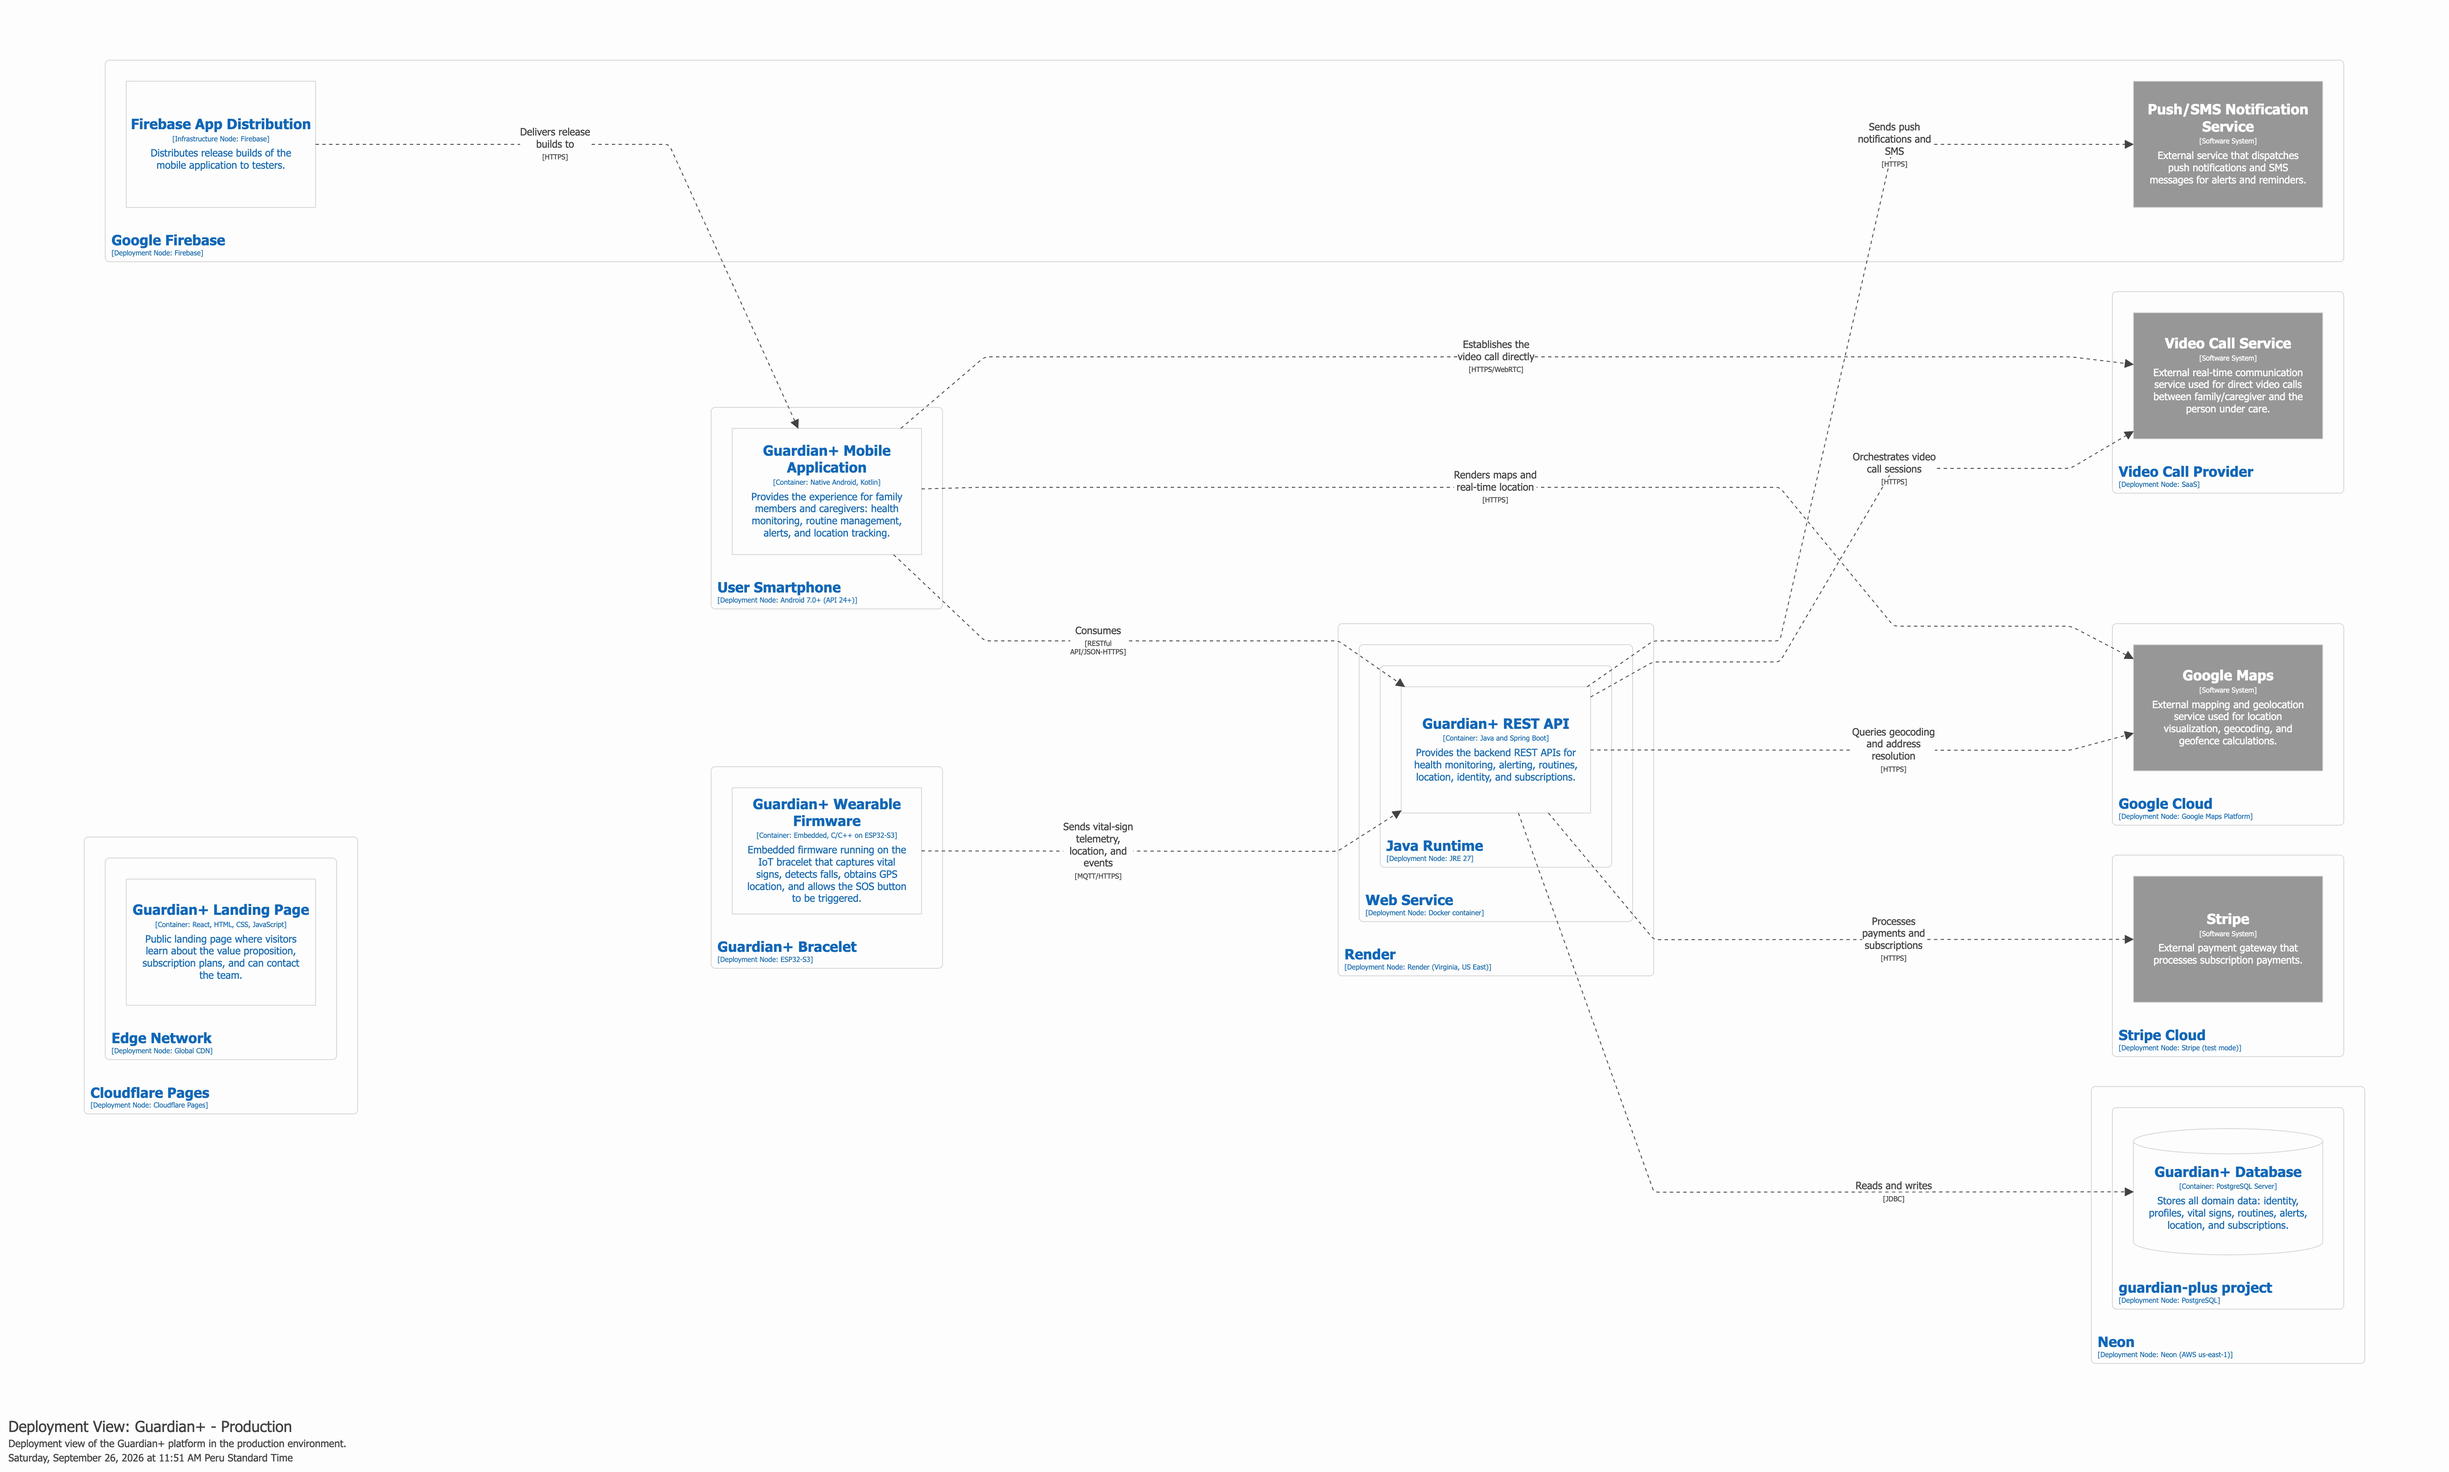
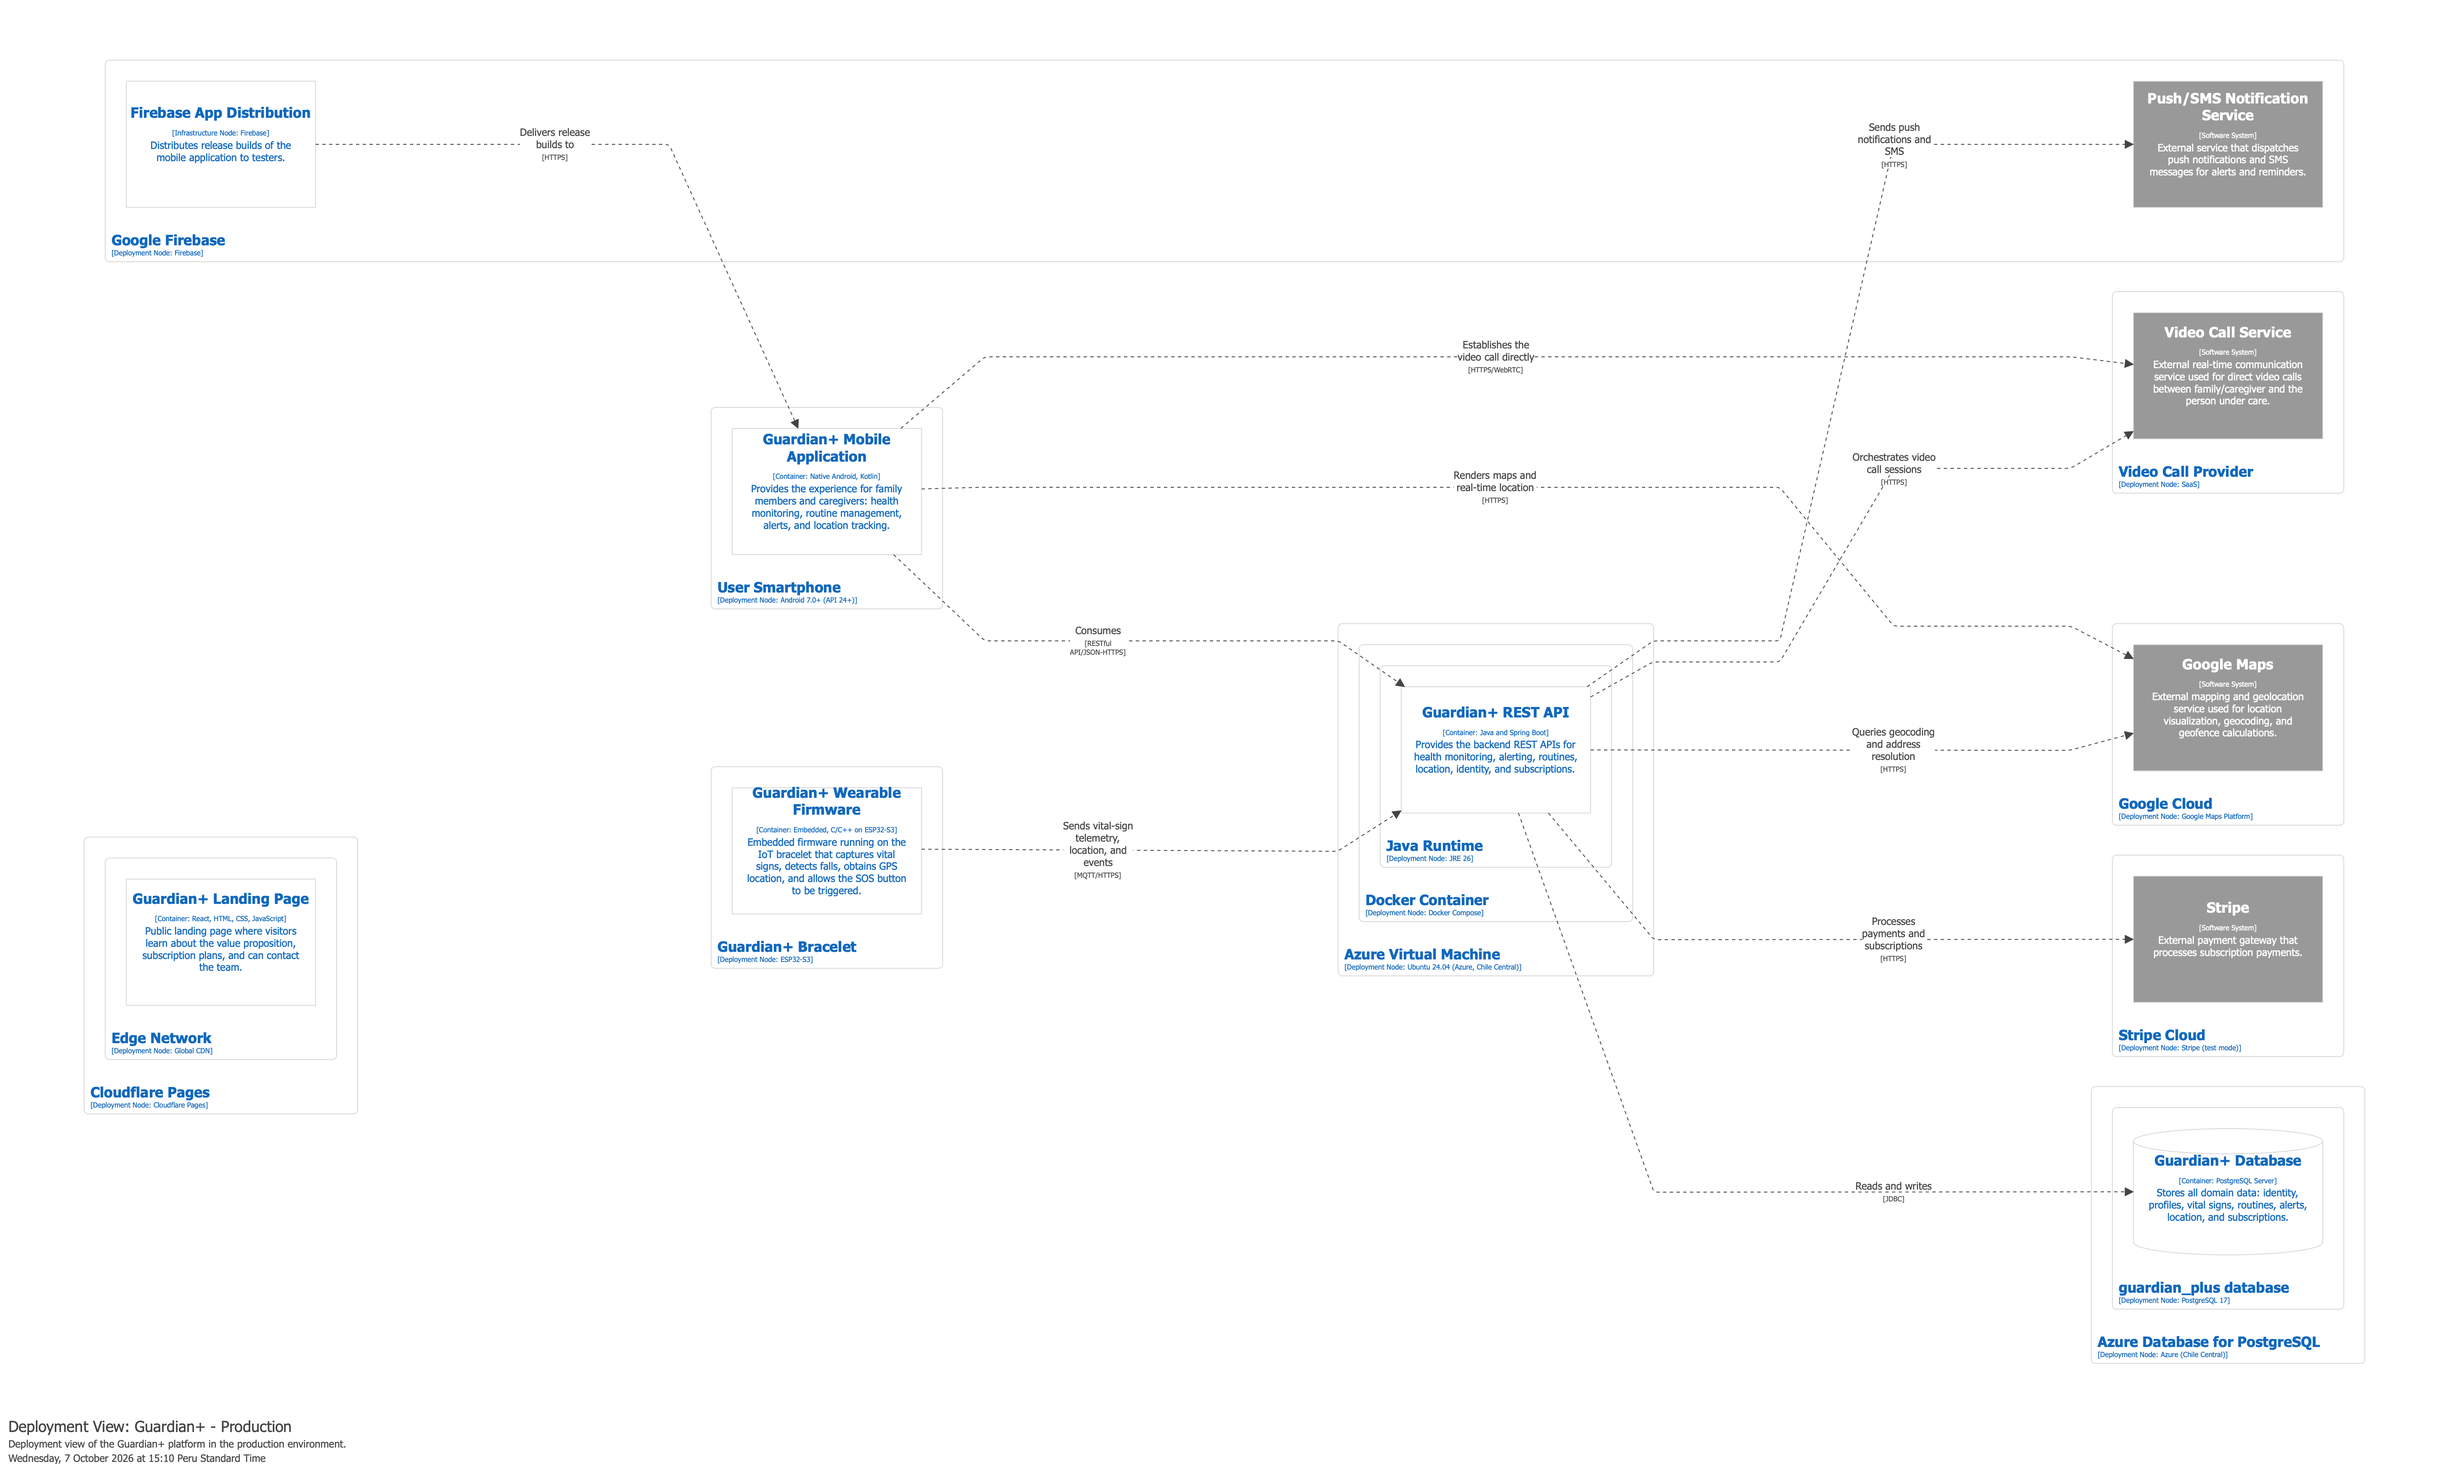
docs(chapterII): update deployment diagram to azure

diff --git a/report/02-chapter.md b/report/02-chapter.md
@@ -3542,7 +3542,7 @@ En esta sección se presenta la vista de despliegue de Guardian+ aplicando el C4
 
 Explicación
 
-La Guardian+ Landing Page se publica en Cloudflare Pages, que la distribuye a través de la red global de entrega de contenido de Cloudflare. La Guardian+ REST API se ejecuta como un contenedor Docker con JRE 27 dentro de un Web Service de Render, ubicado en la región Virginia (US East), y persiste su información en la Guardian+ Database, alojada como servicio gestionado de PostgreSQL en Neon dentro de la región AWS us-east-1. Ambos servicios se ubican en la misma zona geográfica para reducir la latencia entre el backend y la base de datos.
+La Guardian+ Landing Page se publica en Cloudflare Pages, que la distribuye a través de la red global de entrega de contenido de Cloudflare. La Guardian+ REST API se ejecuta como un contenedor Docker con JRE 26 dentro de una máquina virtual de Microsoft Azure con Ubuntu 24.04, detrás del proxy inverso Caddy, que la publica por HTTPS, y persiste su información en la Guardian+ Database, alojada en el servicio gestionado Azure Database for PostgreSQL. Ambos servicios se ubican en la región Chile Central para reducir la latencia entre el backend y la base de datos.
 
 La Guardian+ Mobile Application se ejecuta en los smartphones Android de familiares y cuidadores, desde Android 7.0 (API 24), y sus versiones de prueba se distribuyen mediante Firebase App Distribution. El Guardian+ Wearable Firmware se ejecuta en la pulsera basada en ESP32-S3; durante el desarrollo, este nodo es reemplazado por el IoT Simulator, que genera la telemetría y los eventos del dispositivo y los envía directamente a la REST API. Finalmente, el backend se integra con los servicios externos de notificaciones (Firebase), pagos (Stripe en modo de prueba), mapas y geolocalización (Google Maps Platform) y videollamadas.
 
